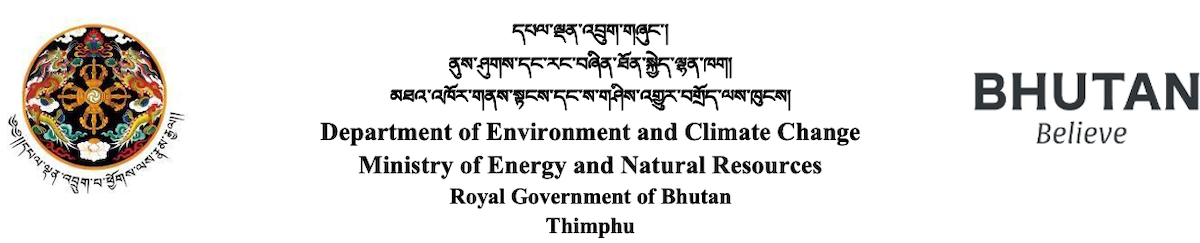
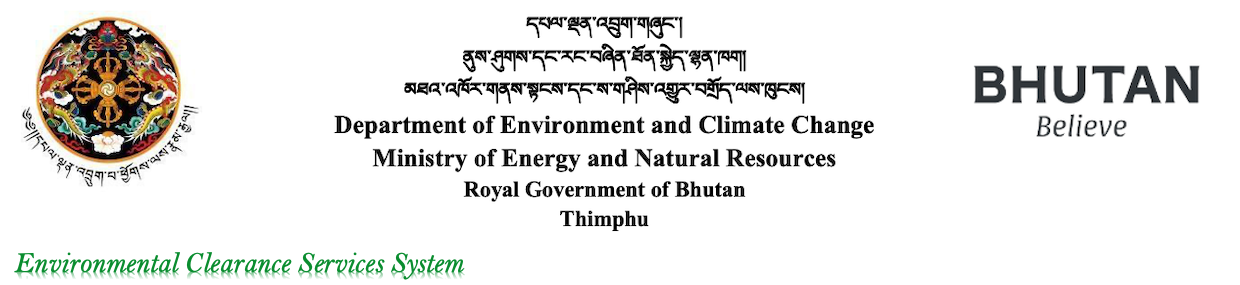
commit 17 may 2023

diff --git a/templates/index.html b/templates/index.html
@@ -4,7 +4,7 @@
 
 <head>
     <meta charset="utf-8" />
-        <title>NEC | ECS </title>
+        <title>DECC | Environmental Clearance Services System </title>
         <meta name="viewport" content="width=device-width, initial-scale=1.0">
         <meta content="A fully featured admin theme which can be used to build CRM, CMS, etc." name="description" />
         <meta content="Deepak" name="author" />
@@ -77,33 +77,14 @@
                         </div> <!-- end card -->
                     </div> <!-- end col -->
                     <div class="col-xl-4 col-lg-5">
-                        {% if form_file_attachment_count > 0 %}
-                            <div class="card text-center">
-                                <div class="card-body">
-                                    <div class="d-flex align-items-center mb-2">
-                                        <h4 class="header-title">Circulars</h4>
-                                    </div>
-                                    <hr>
-                                    <div class="inbox-widget">
-                                        {% for file_attachment in form_file_attachment %}
-                                            <div class="inbox-item">
-                                                <a href='{{file_attachment.file_path}}' target="_blank">{{file_attachment.attachment}}</a>
-                                            </div>
-                                        {% endfor %}
-                                    </div> <!-- end inbox-widget -->
-                                    {% if form_file_attachment_count > 5 %}
-                                        <div class="text-center mt-1">
-                                            <a href="javascript:void(0);" class="text-danger"><i class="mdi mdi-spin mdi-loading me-1"></i> Load more </a>
-                                        </div>
-                                    {% endif %}
-                                </div> <!-- end card-body-->
-                            </div> <!-- end card -->
-                        {% endif %}
+                            <div class="card-body">
+                                <h4 class="header-title">Live Statistics</h4>
+                            </div>
                         {% if pub_file_attachment_count > 0 %}
                             <div class="card text-center">
                                 <div class="card-body">
                                     <div class="d-flex align-items-center mb-2">
-                                        <h4 class="header-title">Publications</h4>
+                                        <h4 class="header-title">Acts and Rules</h4>
                                     </div>
                                     <hr>
                                     <div class="inbox-widget">
@@ -121,11 +102,34 @@
                                 </div> <!-- end card-body-->
                             </div> <!-- end card -->
                         {% endif %}
+                        {% if form_file_attachment_count > 0 %}
+                            <div class="card text-center">
+                                <div class="card-body">
+                                    <div class="d-flex align-items-center mb-2">
+                                        <h4 class="header-title">Notifications</h4>
+                                    </div>
+                                    <hr>
+                                    <div class="inbox-widget">
+                                        {% for file_attachment in form_file_attachment %}
+                                            <div class="inbox-item">
+                                                <a href='{{file_attachment.file_path}}' target="_blank">{{file_attachment.attachment}}</a>
+                                            </div>
+                                        {% endfor %}
+                                    </div> <!-- end inbox-widget -->
+                                    {% if form_file_attachment_count > 5 %}
+                                        <div class="text-center mt-1">
+                                            <a href="javascript:void(0);" class="text-danger"><i class="mdi mdi-spin mdi-loading me-1"></i> Load more </a>
+                                        </div>
+                                    {% endif %}
+                                </div> <!-- end card-body-->
+                            </div> <!-- end card -->
+                        {% endif %}
+
                         {% if down_file_attachment_count > 0 %}
                             <div class="card text-center">
                                 <div class="card-body">
                                     <div class="d-flex align-items-center mb-2">
-                                        <h4 class="header-title">Downloads</h4>
+                                        <h4 class="header-title">Forms and Others</h4>
                                     </div>
                                     <hr>
                                     <div class="inbox-widget">

diff --git a/report/templates/statistical_report.html b/report/templates/statistical_report.html
@@ -1,0 +1,93 @@
+{% extends 'common_dashboard.html' %}
+{% load crispy_forms_tags %}
+{% block content %}
+{% load static %}
+
+<div id="Application_Details">
+    <div class="animated fadeIn">
+        <div class="row">
+            <div class="col-md-12">
+                <div class="card">
+                    <div class="card-header">
+                        <h4 class="card-title">Live Statistics</h4>
+                    </div>
+                    <div class="card-body">
+                        <div class="table-responsive">
+                        <table id="ec_table" class="table table-striped table-bordered">
+                            <thead>
+                                <tr>
+                                    <th scope="col">#</th>
+                                    <th scope="col">Proponent</th>
+                                    <th scope="col">Proponent Type</th>
+                                    <th scope="col">Project Name</th>
+                                    <th scope="col">Address</th>
+                                    <th scope="col">Application Date</th>
+                                    <th scope="col">EC Number</th>
+                                    <th scope="col">Approve Date</th>
+                                    <th scope="col">Application Status</th>
+                                </tr>
+                            </thead>
+                            <tbody>
+                                {% for application_list in application_list %}
+                                    <tr>
+                                        <td>{{ forloop.counter }}</td>
+                                        <td>{{application_list.applicant_name}}</td>
+                                        <td>{{application_list.applicant_type}}</td>
+                                        <td>{{application_list.project_name}}</td>
+                                        <td>{{application_list.address}}</td>
+                                        <td>{{application_list.application_date}}</td>
+                                        <td>{{application_list.ec_reference_no}}</td>
+                                        <td>{{application_list.ec_approve_date}}</td>
+                                        {% if application_list.application_status == 'P' %}
+                                            <td>Pending</td>
+                                        {% elif application_list.application_status == 'A' %}
+                                            <td>Approved</td>
+                                        {% else %}
+                                            <td>None</td>
+                                        {% endif %}
+                                    </tr>
+                                    {% empty %}
+                                    <tr>
+                                      <td colspan="9" class="text-center">No Data</td>
+                                    </tr>
+                                    {% endfor %}
+                            </tbody>
+                        </table>
+                        </div>
+                    </div>
+                </div>
+            </div>
+        </div>
+    </div>
+</div>
+<script>
+    $(document).ready(function()
+        {
+            $("#ec_table").DataTable({
+                dom: 'Bfrtip',
+                buttons: [
+                    {
+                        extend: 'excelHtml5',
+                        title: 'List of Application',
+                        text:'<i class="fas fa-file-excel"></i>',
+                        titleAttr: 'Excel'
+                    },
+                    {
+                        extend: 'pdfHtml5',
+                        title: 'List of Application',
+                        text:'<i class="fas fa-file-pdf"></i>',
+                        titleAttr: 'PDF'
+                    },
+                     {
+                        extend: 'print',
+                        title: 'List of Application',
+                        text: '<i class="fas fa-print"></i>',
+                        titleAttr: 'Print'
+                    },
+                ]
+            });
+        }
+    );
+
+</script>
+{% endblock %}

diff --git a/ecs_admin/templates/edit_other_details.html b/ecs_admin/templates/edit_other_details.html
@@ -5,18 +5,18 @@
             <div class="mb-3">
                 <label class="form-label fw-bold">Type</label>
                 <select type="text" name="edit_type" class="form-control" value="{{others_details.type}}" id="edit_type">
-                    {% if others_details.type == 'publications'%}
-                    <option value="publications" selected>Publications</option>
-                    <option value="downloads">Downloads</option>
-                    <option value="forms">Forms</option>
-                    {% elif  others_details.type == 'downloads'%}
-                    <option value="publications">Publications</option>
-                    <option value="downloads" selected>Downloads</option>
-                    <option value="forms">Forms</option>
+                    {% if others_details.type == 'Acts and Rules'%}
+                    <option value="Acts and Rules" selected>Acts and Rules</option>
+                    <option value="Notifications">Notifications</option>
+                    <option value="Forms and Others">Forms and Others</option>
+                    {% elif  others_details.type == 'Notifications'%}
+                    <option value="Acts and Rules">Acts and Rules</option>
+                    <option value="Notifications" selected>Notifications</option>
+                    <option value="Forms and Others">Forms and Others</option>
                     {% else %}
-                    <option value="publications">Publications</option>
-                    <option value="downloads">Downloads</option>
-                    <option value="forms" selected>Forms</option>
+                    <option value="Acts and Rules">Acts and Rules</option>
+                    <option value="Notifications">Notifications</option>
+                    <option value="Forms and Others" selected>Forms and Others</option>
                     {% endif %}
                 </select>
             </div>

diff --git a/ecs_admin/templates/update_password.html b/ecs_admin/templates/update_password.html
@@ -65,6 +65,10 @@
                     </form>
                 </div>
             </div>
+            <button id="pageloader" class="btn btn-primary" type="button" disabled="" style="display:none;">
+                <span class="spinner-border spinner-border-sm me-1" role="status" aria-hidden="true"></span>
+                Loading...
+            </button>
             <div class="card-footer text-center">
                 <button type="button" class="btn btn-success" onclick="update_login_details()"><i class="mdi mdi-bookmark-check-outline me-1"></i>Update</button>
             </div>
@@ -135,6 +139,7 @@
             }
             else
             {
+                $("#pageloader").show();
                 $.ajax({
                     type : "POST",
                     url : "{% url 'update_first_login_details' %}",
@@ -143,6 +148,7 @@
                     dataType : "html",
                     success : function(responseText)
                     {
+                        $("#pageloader").hide();
                         $('#update_passwordMsg').show();
                         $('#update_passwordMsg').delay(2000).fadeOut('slow');
                         setTimeout('redirectPage()',2000);

diff --git a/ecs_admin/templates/others_master.html b/ecs_admin/templates/others_master.html
@@ -75,9 +75,9 @@
                     <label class="form-label fw-bold">Type</label>
                     <select type="text" name="type" class="form-control" id="type">
                         <option value="">--SELECT--</option>
-                        <option value="circulars">Circulars</option>
-                        <option value="publications">Publications</option>
-                        <option value="downloads">Downloads</option>
+                        <option value="Acts and Rules">Acts and Rules</option>
+                        <option value="Notifications">Notifications</option>
+                        <option value="Forms and Others">Forms and Others</option>
                     </select>
                 </div>
                 <div class="alert alert-danger" id="typeErrorMsg" style="display:none"></div>
@@ -180,6 +180,7 @@
     function add_publication_details()
     {
         let type = $('#type').val();
+        alert(type);
         let title = $('#title').val();
         let file_length = document.getElementById("publication_document");
 

diff --git a/ecs_admin/views.py b/ecs_admin/views.py
@@ -483,6 +483,13 @@ def delete_attachment(request):
             fs = FileSystemStorage("attachments" + "/" + str(timezone.now().year) + "/submenu/")
             fs.delete(str(file_name))
         file.delete()
+    elif identifier == 'H':
+        file = t_file_attachment.objects.filter(file_id=file_id)
+        for file in file:
+            file_name = file.attachment
+            fs = FileSystemStorage("attachments" + "/" + str(timezone.now().year) + "/homepage/")
+            fs.delete(str(file_name))
+        file.delete()
     file_attach = t_file_attachment.objects.filter(document_id=document_id)
     return render(request, 'file_attachment_page.html', {'file_attach': file_attach})
 
@@ -997,10 +1004,10 @@ def add_publication_attach(request):
     title = request.POST.get('title')
     type = request.POST.get('type')
 
-    if type == 'publications':
+    if type == 'Acts and Rules':
         t_file_attachment.objects.create(file_path=file_url,attachment=attachment_name,document_id=document_id,
                                          attachment_type='P')
-    elif type == 'downloads':
+    elif type == 'Forms and Others':
         t_file_attachment.objects.create(file_path=file_url, attachment=attachment_name, document_id=document_id,
                                          attachment_type='D')
     else:
